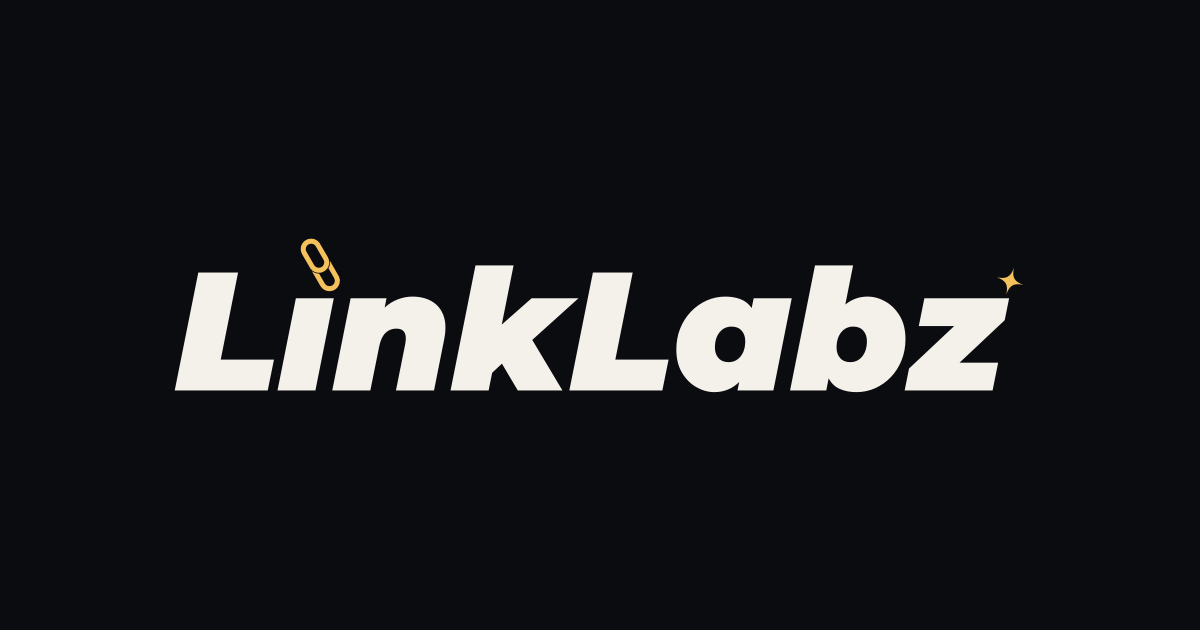
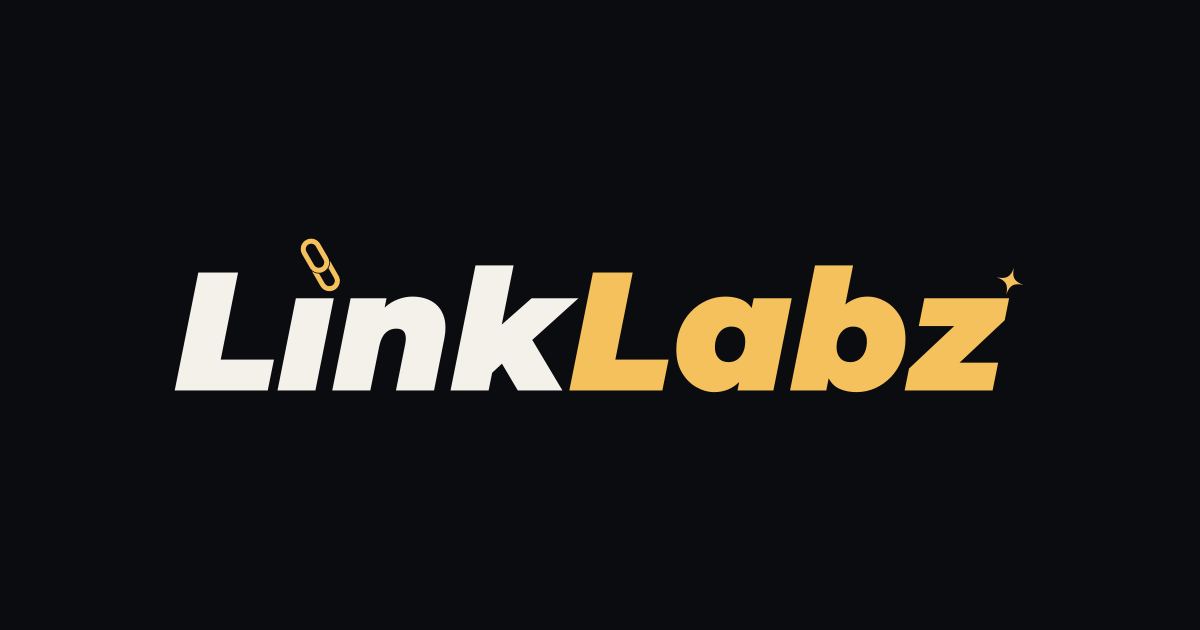
Paint Labz amber on the LinkLabz wordmark.
Link stays off-white on the dark header and charcoal on light backgrounds. Labz, the chain-link i-dot, and the z spark use site amber on charcoal, and a deeper amber on light so the gold still reads.

Changed region(s): [[0.4625, 0.4222, 0.8633, 0.6333]]

diff --git a/index.html b/index.html
@@ -7,29 +7,29 @@
   <meta name="apple-mobile-web-app-capable" content="yes" />
   <meta name="apple-mobile-web-app-status-bar-style" content="black-translucent" />
   <meta name="apple-mobile-web-app-title" content="LinkLabz Forge" />
-  <link rel="manifest" href="manifest.webmanifest?v=20260924a" />
-  <link rel="icon" href="brand/favicon.svg?v=20260924a" type="image/svg+xml" />
-  <link rel="icon" href="brand/favicon-32.png?v=20260924a" type="image/png" sizes="32x32" />
-  <link rel="icon" href="brand/favicon-16.png?v=20260924a" type="image/png" sizes="16x16" />
-  <link rel="icon" href="brand/favicon-48.png?v=20260924a" type="image/png" sizes="48x48" />
-  <link rel="apple-touch-icon" href="brand/apple-touch-icon.png?v=20260924a" sizes="180x180" />
+  <link rel="manifest" href="manifest.webmanifest?v=20260924b" />
+  <link rel="icon" href="brand/favicon.svg?v=20260924b" type="image/svg+xml" />
+  <link rel="icon" href="brand/favicon-32.png?v=20260924b" type="image/png" sizes="32x32" />
+  <link rel="icon" href="brand/favicon-16.png?v=20260924b" type="image/png" sizes="16x16" />
+  <link rel="icon" href="brand/favicon-48.png?v=20260924b" type="image/png" sizes="48x48" />
+  <link rel="apple-touch-icon" href="brand/apple-touch-icon.png?v=20260924b" sizes="180x180" />
   <meta property="og:type" content="website" />
   <meta property="og:title" content="LinkLabz Forge" />
   <meta property="og:description" content="Charcoal and amber review board — reviews, bookmarks, spitballs, to-dos." />
-  <meta property="og:image" content="https://jonbeatz.github.io/linklabz-forge-preview/brand/og.png?v=20260924a" />
+  <meta property="og:image" content="https://jonbeatz.github.io/linklabz-forge-preview/brand/og.png?v=20260924b" />
   <meta property="og:image:width" content="1200" />
   <meta property="og:image:height" content="630" />
   <meta property="og:image:alt" content="LinkLabz" />
   <meta name="twitter:card" content="summary_large_image" />
   <meta name="twitter:title" content="LinkLabz Forge" />
   <meta name="twitter:description" content="Charcoal and amber review board — reviews, bookmarks, spitballs, to-dos." />
-  <meta name="twitter:image" content="https://jonbeatz.github.io/linklabz-forge-preview/brand/og.png?v=20260924a" />
+  <meta name="twitter:image" content="https://jonbeatz.github.io/linklabz-forge-preview/brand/og.png?v=20260924b" />
   <meta name="twitter:image:alt" content="LinkLabz" />
   <title>LinkLabz Forge</title>
   <link rel="preconnect" href="https://fonts.googleapis.com" />
   <link rel="preconnect" href="https://fonts.gstatic.com" crossorigin />
   <link href="https://fonts.googleapis.com/css2?family=DM+Sans:ital,opsz,wght@0,9..40,400;0,9..40,500;0,9..40,600;0,9..40,700;0,9..40,800;1,9..40,400;1,9..40,500;1,9..40,700&family=Mulish:ital,wght@0,400;0,500;0,600;0,700;0,800;1,400;1,600&display=swap" rel="stylesheet" />
-  <link rel="stylesheet" href="styles.css?v=20260924a" />
+  <link rel="stylesheet" href="styles.css?v=20260924b" />
 </head>
 <body>
   <div class="void-bg" aria-hidden="true">
@@ -46,7 +46,7 @@
         <div class="island-brand">
           <div class="brand-text">
             <h1 class="wordmark">
-              <img src="brand/wordmark-light.svg?v=20260924a" alt="LinkLabz" width="180" height="34" />
+              <img src="brand/wordmark-light.svg?v=20260924b" alt="LinkLabz" width="180" height="34" />
             </h1>
             <span class="brand-badge">review board · v1</span>
           </div>
@@ -179,6 +179,6 @@
 
   <div class="toast-host" id="toast-host" aria-live="polite"></div>
 
-  <script src="app.js?v=20260924a"></script>
+  <script src="app.js?v=20260924b"></script>
 </body>
 </html>

diff --git a/brand/README.md b/brand/README.md
@@ -1,6 +1,10 @@
 # LinkLabz brand
 
-D2 wordmark: one color for the letters, amber only on the chain-link i-dot and the spark on the z. Amber is the site token `--amber` (`#F5C15C`). Off-white is `--text` (`#F4F1EA`). Charcoal is `--void-0` (`#0B0C0F`).
+D2 wordmark. **Link** is the body color. **Labz**, the chain-link i-dot, and the spark on the z are gold.
+
+On the charcoal header (`wordmark-light.svg`): Link is `--text` (`#F4F1EA`). Labz and the accents are `--amber` (`#F5C15C`).
+
+On light backgrounds (`wordmark-charcoal.svg`): Link is charcoal `--void-0` (`#0B0C0F`). Labz and the accents are a deeper amber, `#936508`. That is the same hue as `--amber`, darkened so it holds contrast: about 5.1:1 on white and 4.5:1 on `#F4F1EA`. `#F5C15C` itself is about 1.7:1 on white, so it stays on the dark header only.
 
 Letterforms are Montserrat Black Italic (Julieta Ulanovsky, SIL Open Font License), converted to outlines. The chain link and spark are original geometry, not a trace of the mockup.
 
